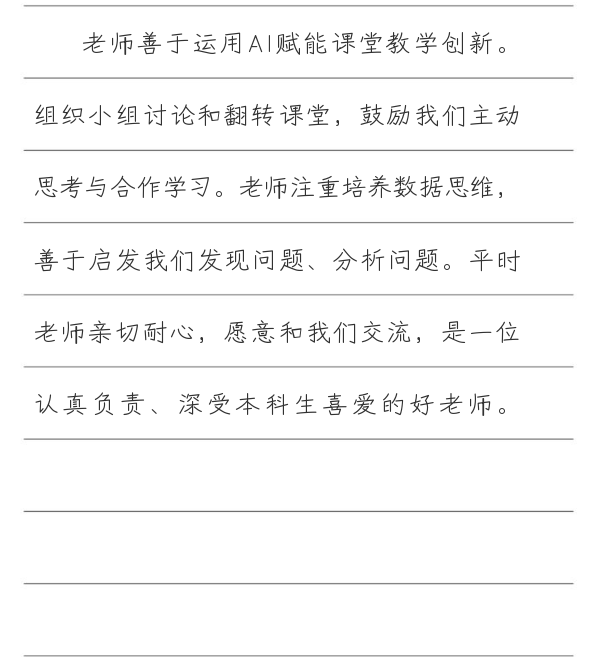
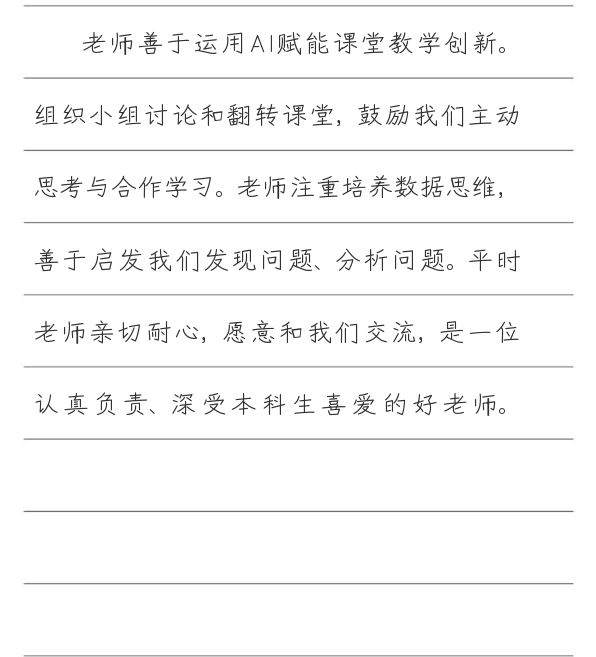
Keep punctuation compact when justifying lines

diff --git a/template.py b/template.py
@@ -7,6 +7,8 @@ from PIL import Image, ImageDraw, ImageFont
 
 
 DEFAULT_RULES = "5,78,150,222,295,367,439"
+CLOSING_PUNCTUATION = set("，。！？；：、）》】」』〕〉”’…％")
+OPENING_PUNCTUATION = set("（《【「『〔〈“‘")
 
 
 def parse_rules(value: str) -> list[int]:
@@ -37,11 +39,25 @@ def draw_justified_line(
     natural_width = sum(widths)
     if natural_width > right - left:
         raise ValueError(f"line is too long for the configured text box: {line}")
-    extra = (right - left - natural_width) / max(1, len(line) - 1)
+    spacing_slots = sum(
+        current not in CLOSING_PUNCTUATION
+        and following not in CLOSING_PUNCTUATION
+        and current not in OPENING_PUNCTUATION
+        and following not in OPENING_PUNCTUATION
+        for current, following in zip(line, line[1:])
+    )
+    extra = (right - left - natural_width) / max(1, spacing_slots)
     x = float(left)
-    for char, width in zip(line, widths):
+    for index, (char, width) in enumerate(zip(line, widths)):
         draw.text((round(x), y), char, font=font, fill=fill)
         x += width + extra
+        if index < len(line) - 1 and (
+            char in CLOSING_PUNCTUATION
+            or line[index + 1] in CLOSING_PUNCTUATION
+            or char in OPENING_PUNCTUATION
+            or line[index + 1] in OPENING_PUNCTUATION
+        ):
+            x -= extra
 
 
 def render(args: argparse.Namespace) -> Path:
